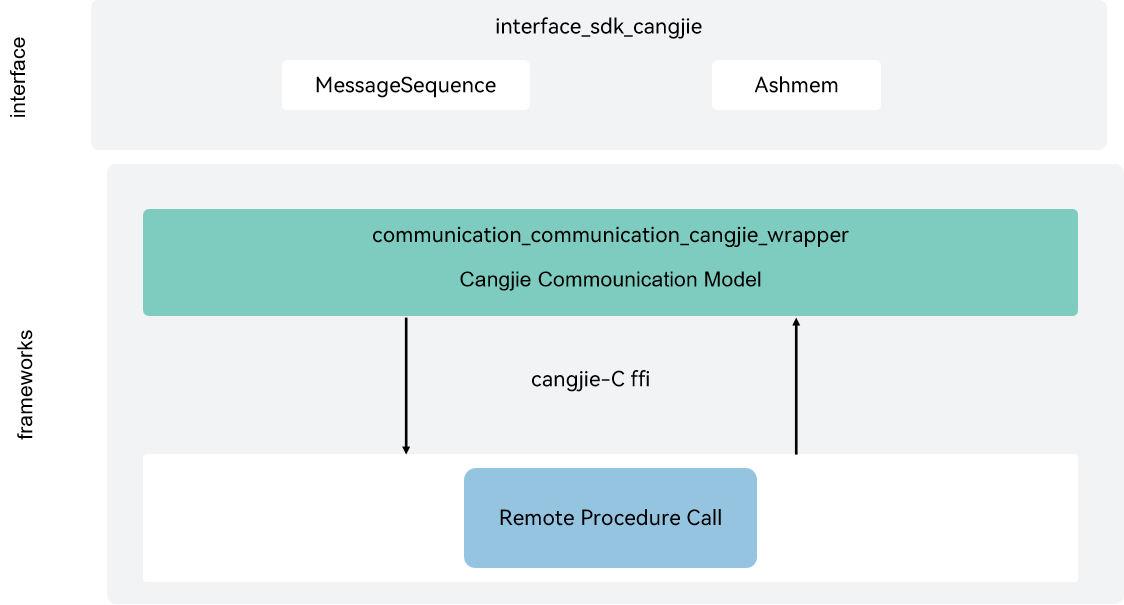
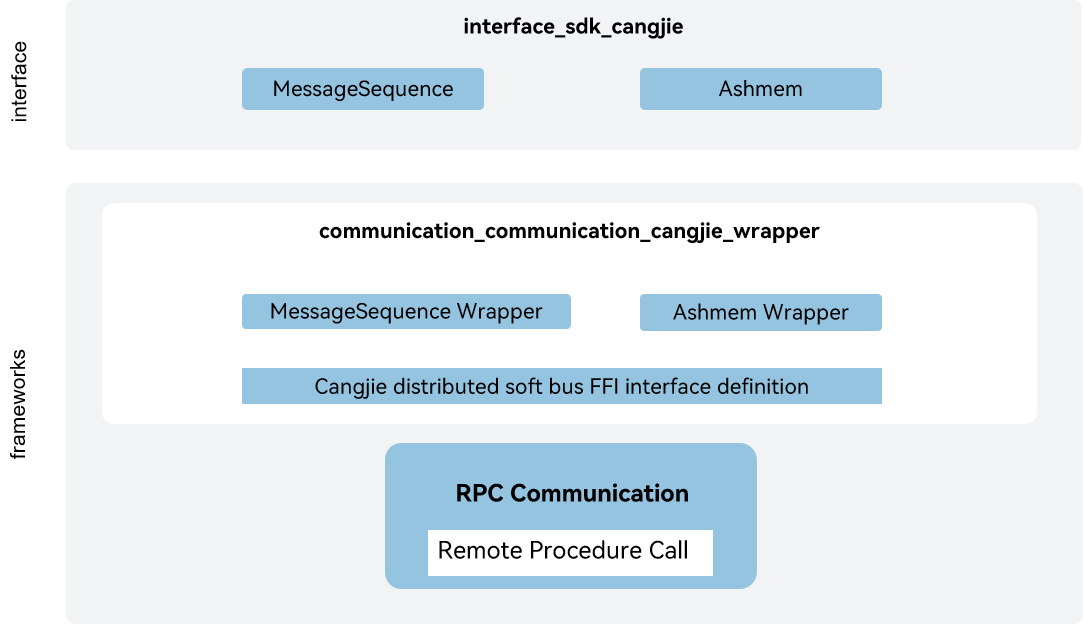
update readme

diff --git a/README.md b/README.md
@@ -6,11 +6,16 @@ The Distributed Softbus Cangjie API is a Cangjie API encapsulated on OpenHarmony
 
 ## System Architecture
 
-**Figure 1** OpenHarmony distributed soft bus Cangjie architecture diagram
+**Figure 1** Diagram of the Cangjie architecture of distributed soft bus
 
-![](figures/commounication_cangjie_wrapper_architecture_en.png)
+![Diagram of the Cangjie architecture of distributed soft bus](figures/commounication_cangjie_wrapper_architecture_en.png)
 
-The distributed soft bus Cangjie interface provides interfaces related to message sequences and anonymous shared memory objects.
+As shown in the architecture diagram:
+
+- MessageSequence: Provides the data format used for communication.
+- Ashmem: Provides methods related to anonymous shared memory objects.
+- Cangjie distributed soft bus FFI interface definition: Responsible for defining the C-interoperable Cangjie interface, which is used to realize Cangjie's distributed soft bus capabilities.
+- Remote Procedure Call: Responsible for providing basic RPC functions, and encapsulating the C interface to provide Cangjie for interoperability.
 
 ## Directory Structure
 

diff --git a/README_zh.md b/README_zh.md
@@ -6,11 +6,16 @@
 
 ## 系统架构
 
-**图 1**  OpenHarmony分布式软总线仓颉架构图
+**图 1** 分布式软总线仓颉架构图
 
-![](figures/communication_cangjie_wrapper_architecture.png)
+![分布式软总线仓颉架构图](figures/communication_cangjie_wrapper_architecture.png)
 
-分布式软总线仓颉接口提供了消息序列和匿名共享内存对象相关的接口。
+如架构图所示：
+
+- 消息序列：提供用来通信的数据格式。
+- 匿名共享内存对象：提供与匿名共享内存对象相关的方法。
+- 仓颉分布式软总线FFI接口定义：负责定义C互操作仓颉接口，用于实现仓颉分布式软总线能力。
+- RPC通信：负责提供RPC基础功能，封装C接口提供给仓颉进行互操作。
 
 ## 目录
 
